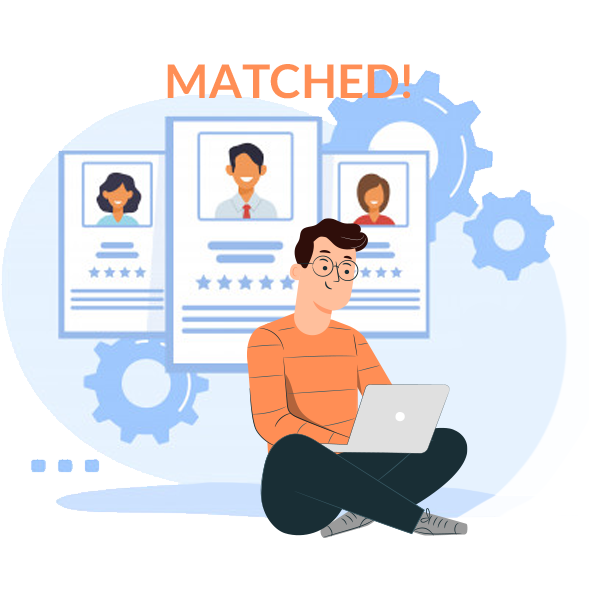
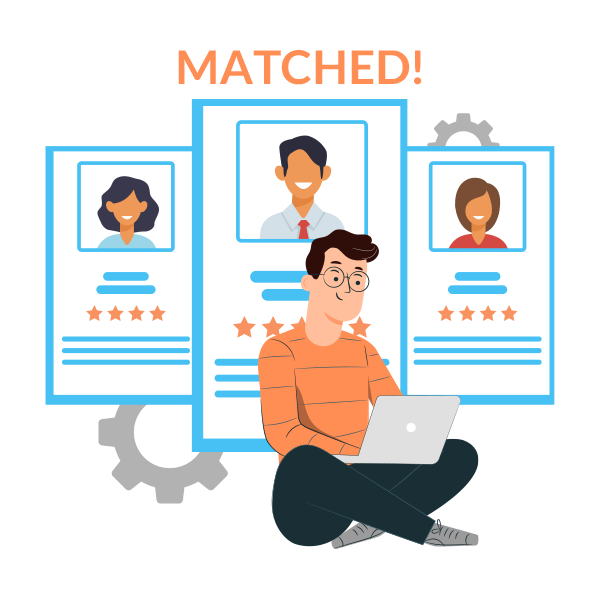
images revisions

diff --git a/employer/index.html b/employer/index.html
@@ -300,16 +300,16 @@
 		</div>
 	</div>
 
-<section class="section-2">
+<section class="section-2" >
   <style>
+  .section-2 {
+  	background-color: white !important;
+  }
   .section-2 .resumeDesc {
     text-align: center;
     vertical-align: middle;
     margin: 0 auto 20px;
     position: relative;
-    border-radius: 50%;
-    overflow: hidden;
-    background-color: white;
     height:360px;
     width:360px;
   }
